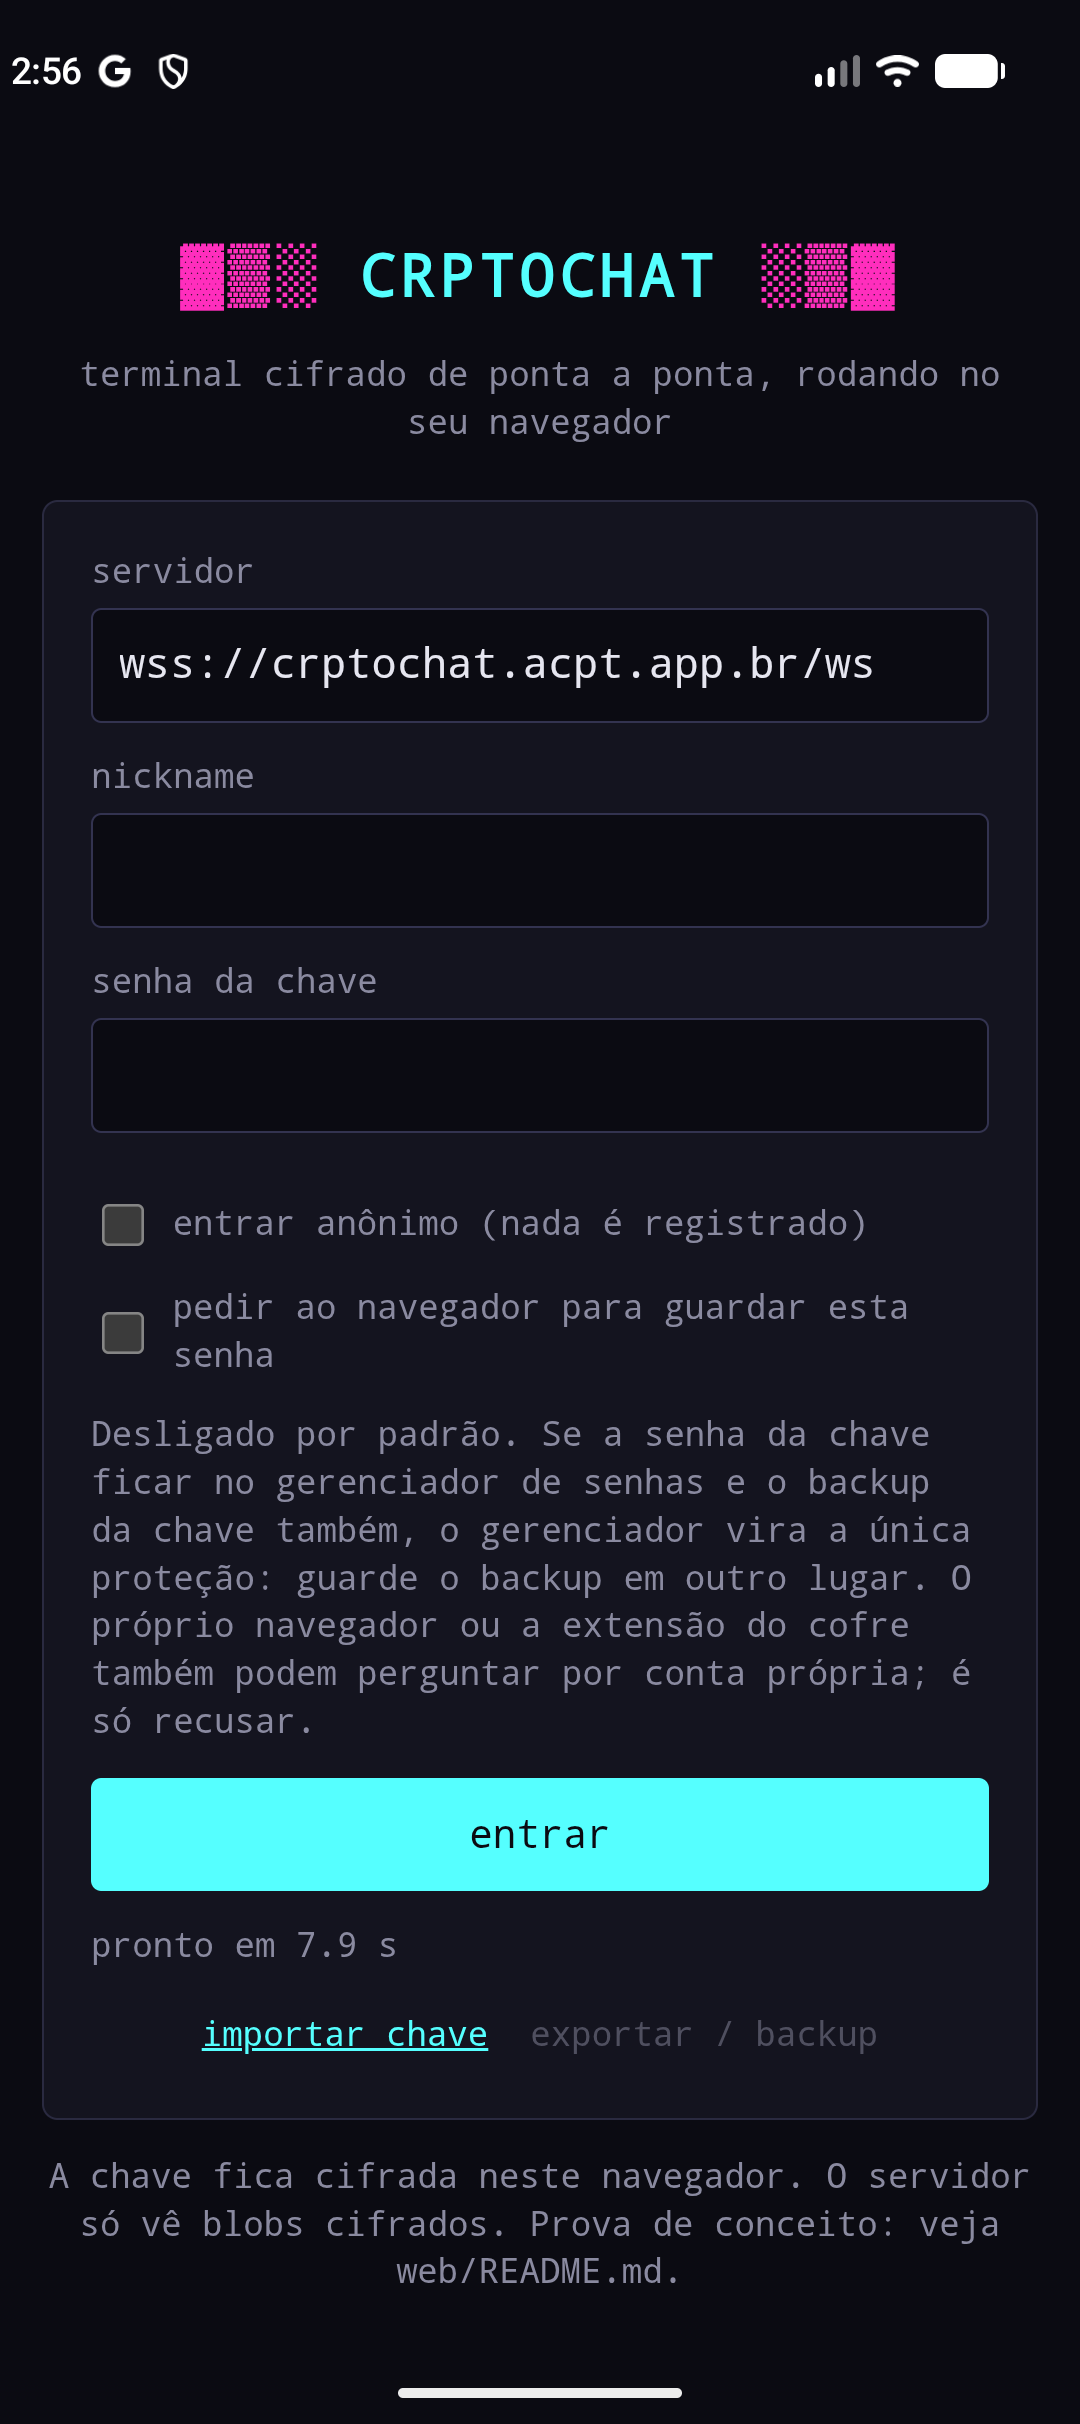
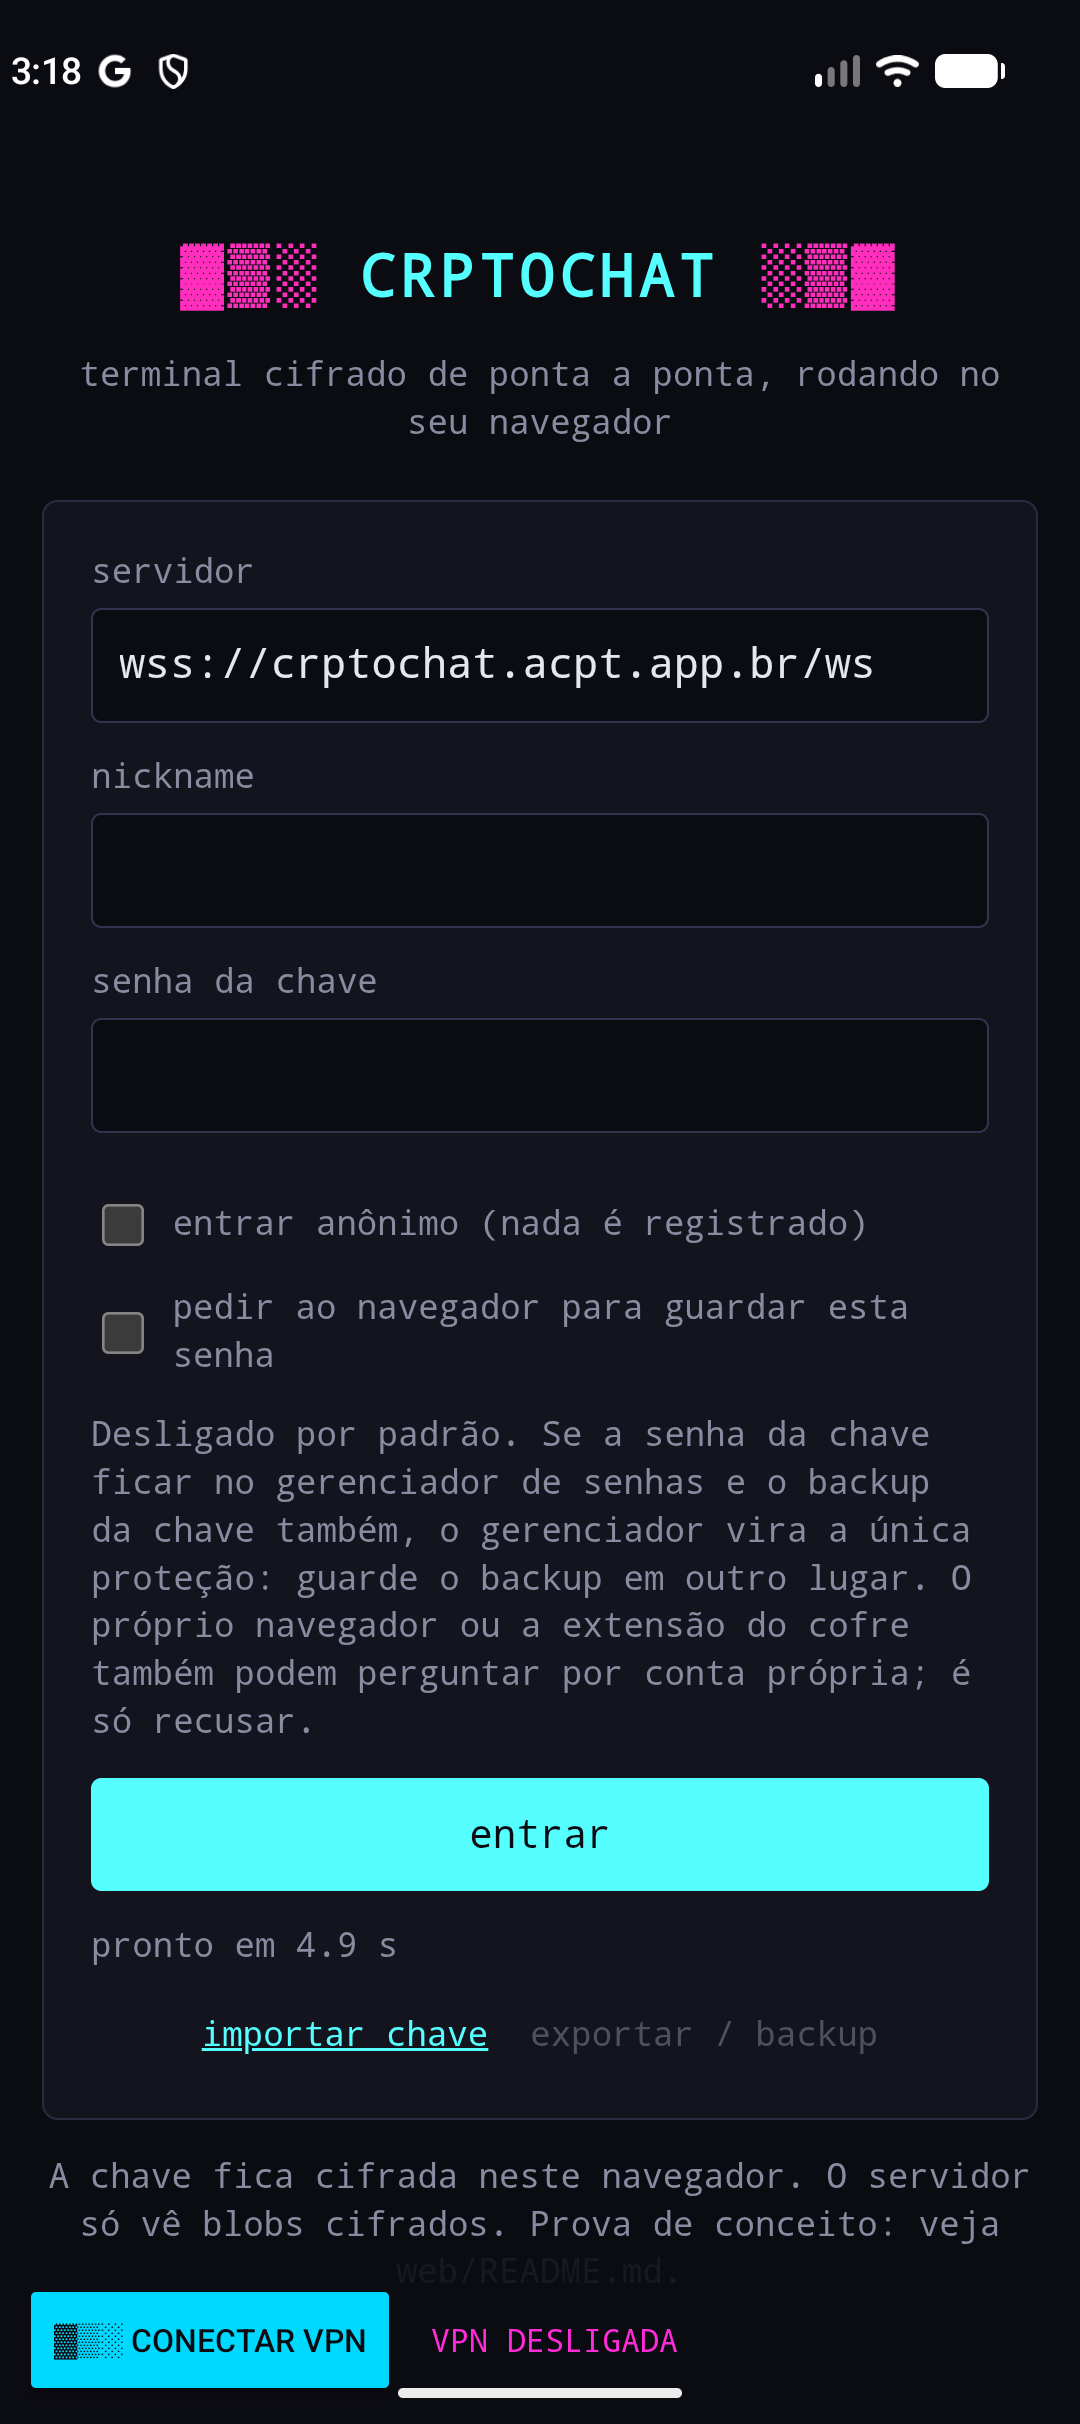
Add manual WireGuard VPN connection
Embeds the official WireGuard userspace tunnel, lets the user import a .conf profile, requests the Android VPN permission and exposes connect/disconnect controls in a cyberpunk bottom bar. Updates README and the emulator screenshot.

Changed region(s): [[0.0306, 0.9282, 0.55, 0.9901], [0.5806, 0.9282, 0.6111, 0.9901]]

diff --git a/app/src/main/java/br/com/vulcan/cptochat/MainActivity.kt b/app/src/main/java/br/com/vulcan/cptochat/MainActivity.kt
@@ -1,8 +1,11 @@
 package br.com.vulcan.cptochat
 
 import android.annotation.SuppressLint
+import android.app.Activity
+import android.content.Intent
 import android.graphics.Bitmap
 import android.net.Uri
+import android.net.VpnService
 import android.os.Bundle
 import android.view.View
 import android.webkit.ConsoleMessage
@@ -15,24 +18,76 @@ import android.webkit.WebViewClient
 import android.webkit.WebChromeClient
 import android.net.http.SslError
 import android.webkit.WebSettings
+import android.widget.Button
 import android.widget.TextView
+import android.widget.Toast
 import androidx.activity.OnBackPressedCallback
+import androidx.activity.result.contract.ActivityResultContracts
 import androidx.webkit.WebViewCompat
 import androidx.appcompat.app.AppCompatActivity
 import androidx.webkit.WebSettingsCompat
 import androidx.webkit.WebViewFeature
+import com.wireguard.android.backend.GoBackend
+import com.wireguard.android.backend.Tunnel
+import com.wireguard.config.Config
 import org.json.JSONObject
+import java.util.concurrent.Executors
 
 class MainActivity : AppCompatActivity() {
     private lateinit var webView: WebView
     private lateinit var errorView: TextView
     private lateinit var origin: Uri
 
+    // WireGuard: the userspace backend owns the tunnel; the library AAR declares
+    // the VpnService in the merged manifest, so no extra service class is needed.
+    private lateinit var vpnBar: View
+    private lateinit var vpnButton: Button
+    private lateinit var vpnStatus: TextView
+    private lateinit var backend: GoBackend
+    private val vpnExecutor = Executors.newSingleThreadExecutor()
+    private var vpnState = Tunnel.State.DOWN
+    private val tunnel = object : Tunnel {
+        override fun getName(): String = "crptochat"
+        override fun onStateChange(newState: Tunnel.State) {
+            vpnState = newState
+            runOnUiThread { updateVpnUi(newState) }
+        }
+    }
+
+    private val vpnPermissionLauncher = registerForActivityResult(
+        ActivityResultContracts.StartActivityForResult()
+    ) { result ->
+        if (result.resultCode == Activity.RESULT_OK) {
+            openConfigPicker()
+        } else {
+            Toast.makeText(this, R.string.vpn_permission_denied, Toast.LENGTH_SHORT).show()
+        }
+    }
+
+    private val configPickerLauncher = registerForActivityResult(
+        ActivityResultContracts.GetContent()
+    ) { uri ->
+        if (uri == null) return@registerForActivityResult
+        try {
+            val stream = contentResolver.openInputStream(uri)
+                ?: throw IllegalArgumentException("stream indisponível")
+            stream.use { Config.parse(it) }.let(::connectVpn)
+        } catch (e: Exception) {
+            Toast.makeText(this, R.string.vpn_config_error, Toast.LENGTH_LONG).show()
+        }
+    }
+
     override fun onCreate(savedInstanceState: Bundle?) {
         super.onCreate(savedInstanceState)
         setContentView(R.layout.activity_main)
         webView = findViewById(R.id.chat_webview)
         errorView = findViewById(R.id.error_message)
+        vpnBar = findViewById(R.id.vpn_bar)
+        vpnButton = findViewById(R.id.vpn_button)
+        vpnStatus = findViewById(R.id.vpn_status)
+        backend = GoBackend(applicationContext)
+        vpnButton.setOnClickListener { onVpnButtonClicked() }
+        updateVpnUi(vpnState)
 
         val configured = Uri.parse(BuildConfig.CHAT_ORIGIN)
         if ((configured.scheme != "https" && configured.scheme != "http") || configured.host.isNullOrBlank()) {
@@ -144,9 +199,83 @@ class MainActivity : AppCompatActivity() {
     private fun showConfigurationError() {
         webView.visibility = View.GONE
         errorView.visibility = View.VISIBLE
+        vpnBar.visibility = View.GONE
+    }
+
+    // ---- WireGuard VPN -------------------------------------------------------
+
+    private fun onVpnButtonClicked() {
+        if (vpnState == Tunnel.State.UP) {
+            disconnectVpn()
+            return
+        }
+        val prepareIntent = VpnService.prepare(this)
+        if (prepareIntent != null) {
+            Toast.makeText(this, R.string.vpn_permission_needed, Toast.LENGTH_SHORT).show()
+            vpnPermissionLauncher.launch(prepareIntent)
+        } else {
+            openConfigPicker()
+        }
+    }
+
+    private fun openConfigPicker() {
+        Toast.makeText(this, R.string.vpn_select_config, Toast.LENGTH_SHORT).show()
+        configPickerLauncher.launch("*/*")
+    }
+
+    private fun connectVpn(config: Config) {
+        vpnState = Tunnel.State.TOGGLE
+        updateVpnUi(vpnState)
+        vpnExecutor.execute {
+            try {
+                val state = backend.setState(tunnel, Tunnel.State.UP, config)
+                runOnUiThread { finishVpnChange(state, R.string.vpn_connected) }
+            } catch (e: Exception) {
+                runOnUiThread { showVpnFailure(e) }
+            }
+        }
+    }
+
+    private fun disconnectVpn() {
+        vpnExecutor.execute {
+            try {
+                val state = backend.setState(tunnel, Tunnel.State.DOWN, null)
+                runOnUiThread { finishVpnChange(state, R.string.vpn_disconnected) }
+            } catch (e: Exception) {
+                runOnUiThread { showVpnFailure(e) }
+            }
+        }
+    }
+
+    private fun finishVpnChange(state: Tunnel.State, messageRes: Int) {
+        vpnState = state
+        updateVpnUi(state)
+        Toast.makeText(this, messageRes, Toast.LENGTH_SHORT).show()
+    }
+
+    private fun showVpnFailure(e: Exception) {
+        vpnState = Tunnel.State.DOWN
+        updateVpnUi(vpnState)
+        Toast.makeText(
+            this,
+            getString(R.string.vpn_failed, e.message ?: e.javaClass.simpleName),
+            Toast.LENGTH_LONG
+        ).show()
+    }
+
+    private fun updateVpnUi(state: Tunnel.State) {
+        vpnButton.setText(if (state == Tunnel.State.UP) R.string.vpn_disconnect else R.string.vpn_connect)
+        vpnStatus.setText(
+            when (state) {
+                Tunnel.State.UP -> R.string.vpn_status_on
+                Tunnel.State.TOGGLE -> R.string.vpn_status_connecting
+                else -> R.string.vpn_status_off
+            }
+        )
     }
 
     override fun onDestroy() {
+        vpnExecutor.shutdown()
         webView.destroy()
         super.onDestroy()
     }

diff --git a/README.md b/README.md
@@ -65,6 +65,7 @@ o mesmo relay por WebSocket.
 | API | `minSdk 26` · `compileSdk/targetSdk 36` |
 | Permissões | nenhuma de câmera, microfone, arquivos ou localização |
 | Ponte JavaScript | nenhuma |
+| VPN | WireGuard userspace, manual, perfil importado pelo usuário |
 | Licença | MIT |
 
 ---
@@ -81,6 +82,38 @@ o mesmo relay por WebSocket.
 - Ícone cyberpunk: balão neon com prompt `>_`, glitch magenta e grade de
   terminal — adaptive, round, legacy e monochrome (tema Android 13).
 - Gerador de ícones reproduzível, sem dependência de PIL.
+- **VPN WireGuard manual**: botão `▓▒░ CONECTAR VPN` na barra inferior.
+
+---
+
+## ▓▒░ VPN // WIREGUARD ░▒▓
+
+O app embute o tunnel userspace oficial do WireGuard
+(`com.wireguard.android:tunnel`) e conecta **somente quando o usuário pede**:
+
+1. Toque em `▓▒░ CONECTAR VPN`.
+2. O Android pede a autorização padrão de conexão VPN (uma única vez).
+3. Escolha um arquivo `.conf` de configuração WireGuard.
+4. O botão passa a `DESCONECTAR VPN` e o status mostra `VPN ATIVA · wg0`.
+
+<details>
+<summary><b>Por que importar o perfil?</b></summary>
+
+Nenhuma chave privada ou endpoint de VPN é embutido no APK. O arquivo é lido
+pelo Android via *content provider* e usado apenas na memória para abrir o
+túnel. Depois de desconectar, a configuração não é salva pelo app.
+
+</details>
+
+> [!IMPORTANT]
+> O endpoint do chat continua fixo em `wss://crptochat.acpt.app.br/ws`. A VPN
+> muda a rota de rede, não o destino do WebSocket. Se o túnel estiver ativo,
+> todo o tráfego do WebView passa por ele.
+
+> [!WARNING]
+> Para publicar na Play Store, declare o uso de VPN no Play Console e mantenha
+> a política de privacidade atualizada. O diálogo de consentimento do Android
+> é obrigatório e não pode ser suprimido.
 
 ---
 
@@ -145,7 +178,7 @@ cptochat-android/
 │   ├── build.gradle.kts          # chatOrigin / chatWsUrl, API 36
 │   └── src/main/
 │       ├── AndroidManifest.xml
-│       ├── java/.../MainActivity.kt   # WebView, CSP, pin do WebSocket
+│       ├── java/.../MainActivity.kt   # WebView, CSP, pin do WS, VPN WireGuard
 │       └── res/mipmap-*              # ícone cyberpunk
 ├── docs/screenshots/app-main.png       # print real do app rodando
 ├── tools/generate_icons.py             # regera os PNGs do ícone
